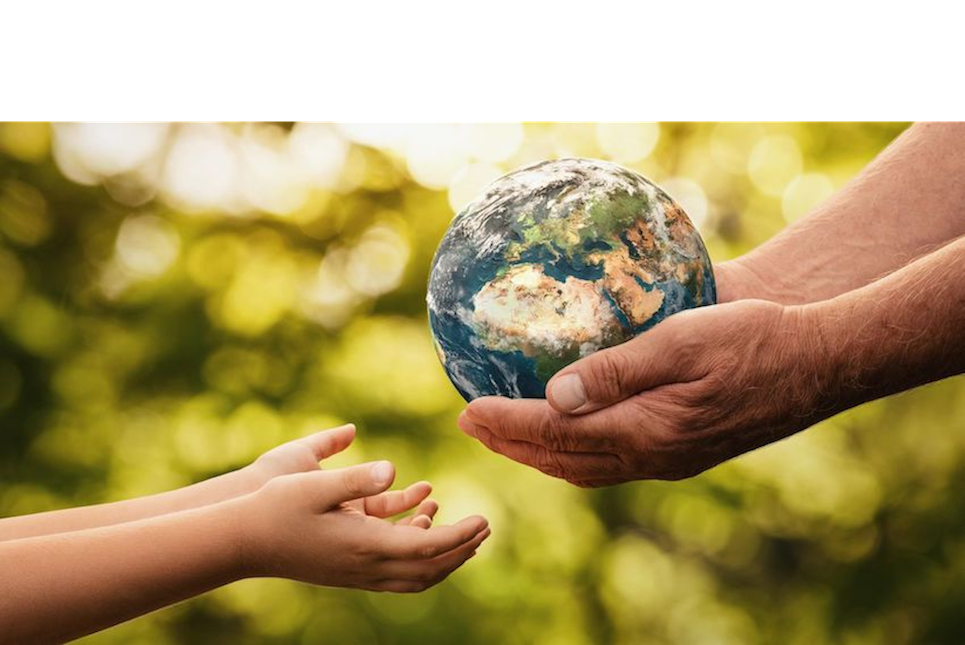
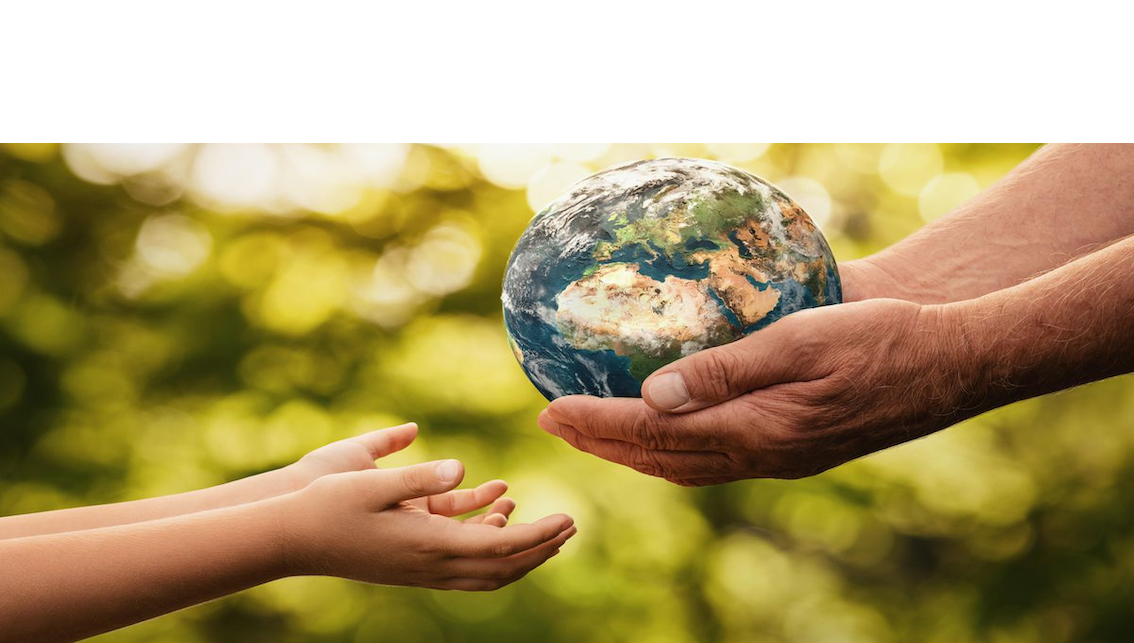
added photo on landing page

Changed region(s): [[0.4974, 0.1866, 1.0, 0.2488], [0.0, 0.1866, 0.4041, 0.2488], [0.5285, 0.4044, 0.5596, 0.4355]]

diff --git a/resources/views/welcome.blade.php b/resources/views/welcome.blade.php
@@ -7,10 +7,10 @@
         </div>
     </section>
 
-    {{-- <section class="hero  is-medium  is-bold">
+    <section class="hero  is-medium  is-bold">
         <div class="header-img">
             <img src="./image/sdg-photo.png" />
-        </div> --}}
+        </div>
 
     <section class="section">
         <div class="container">
